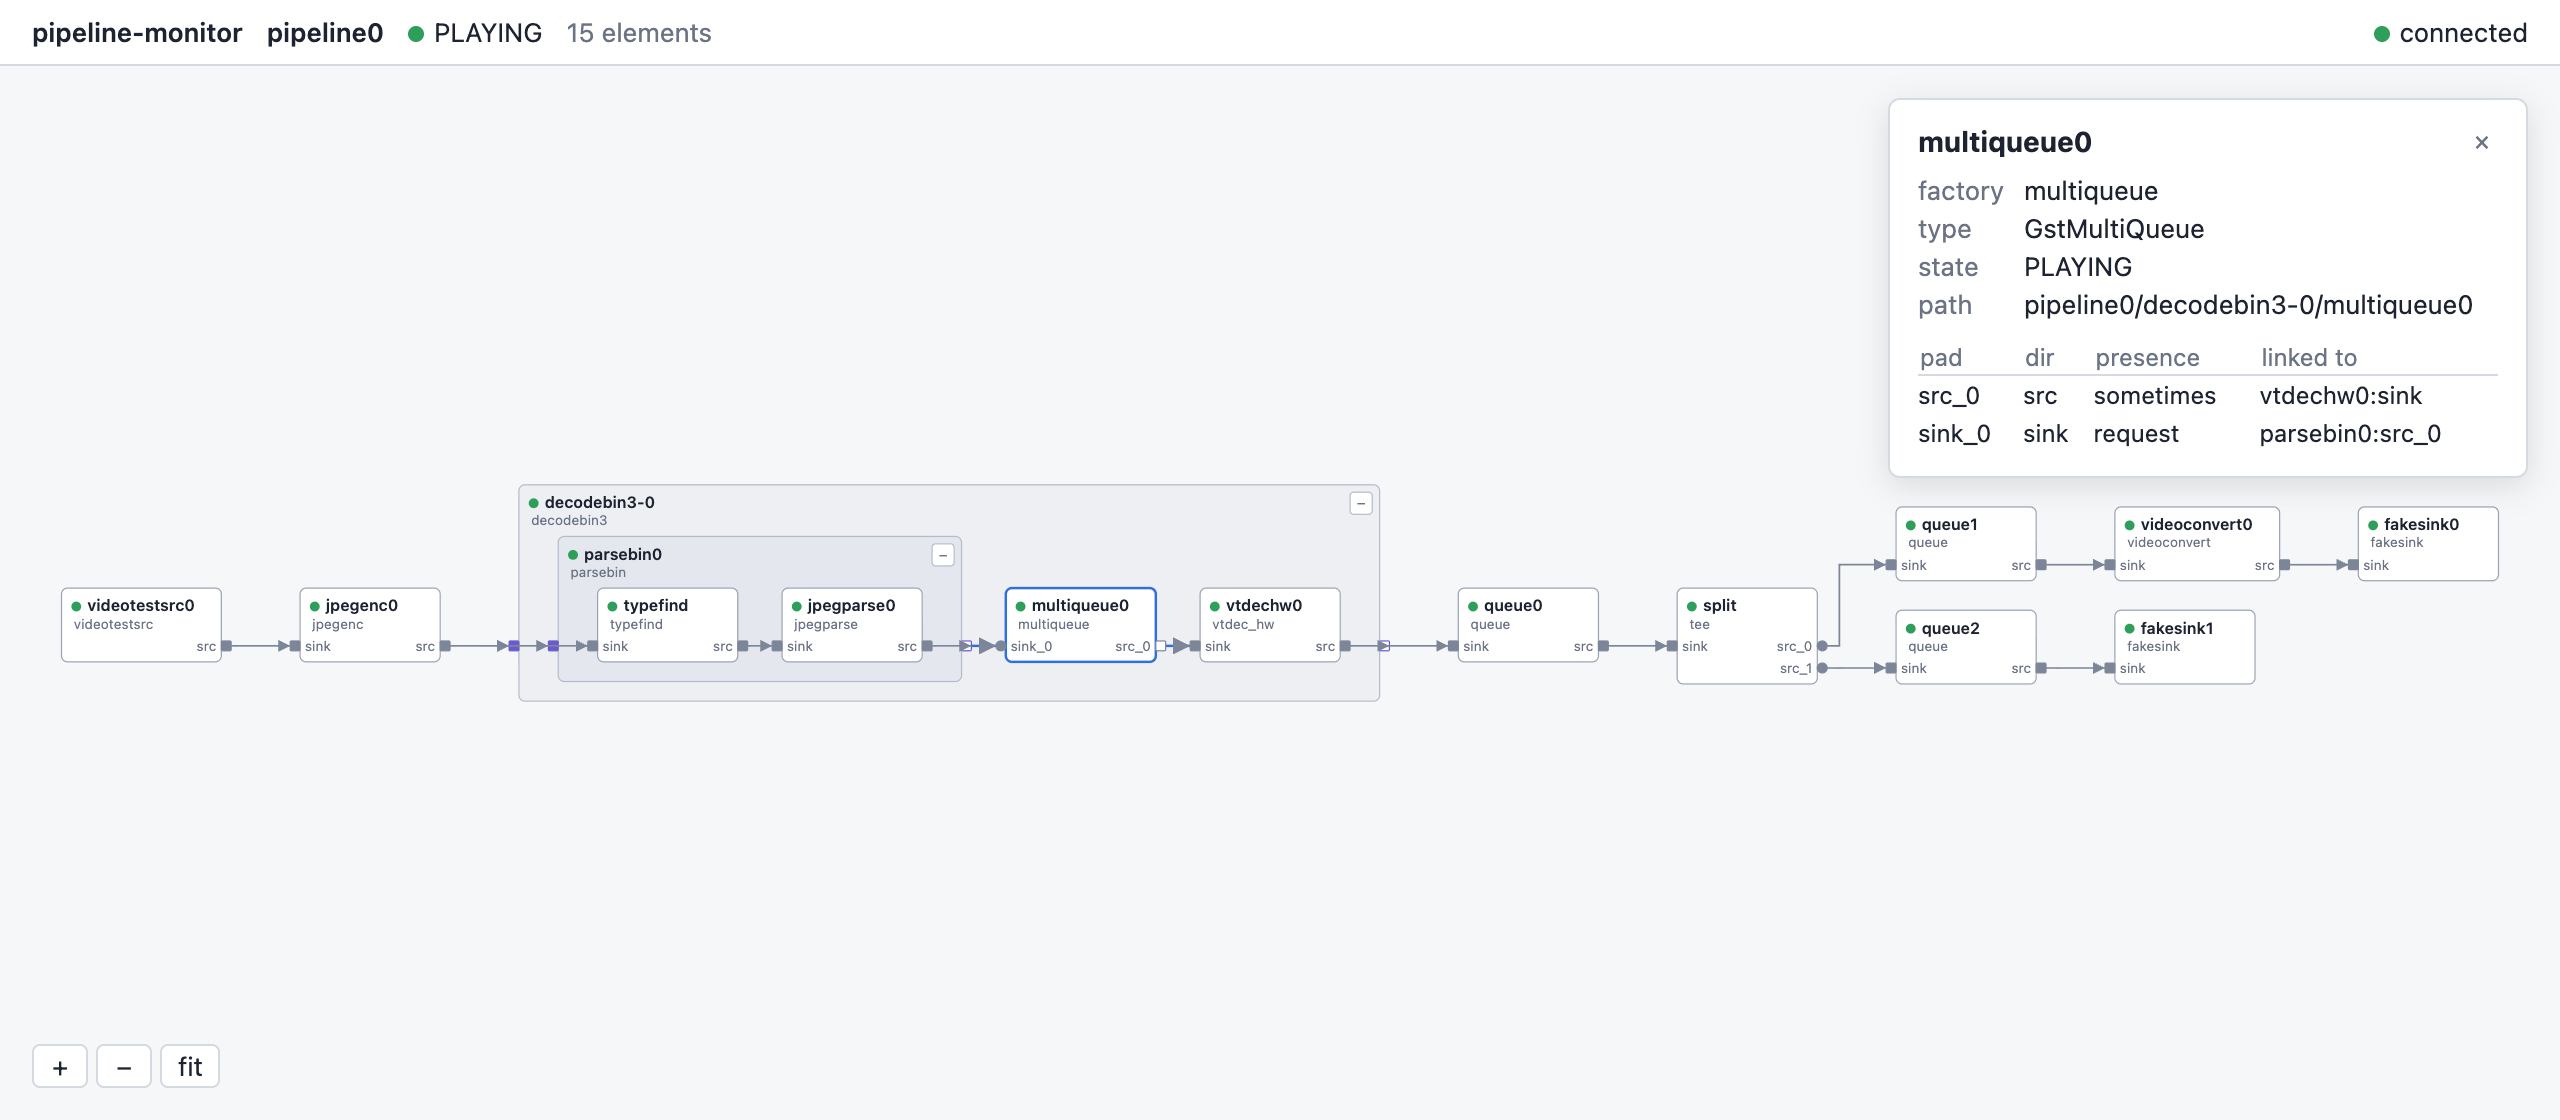
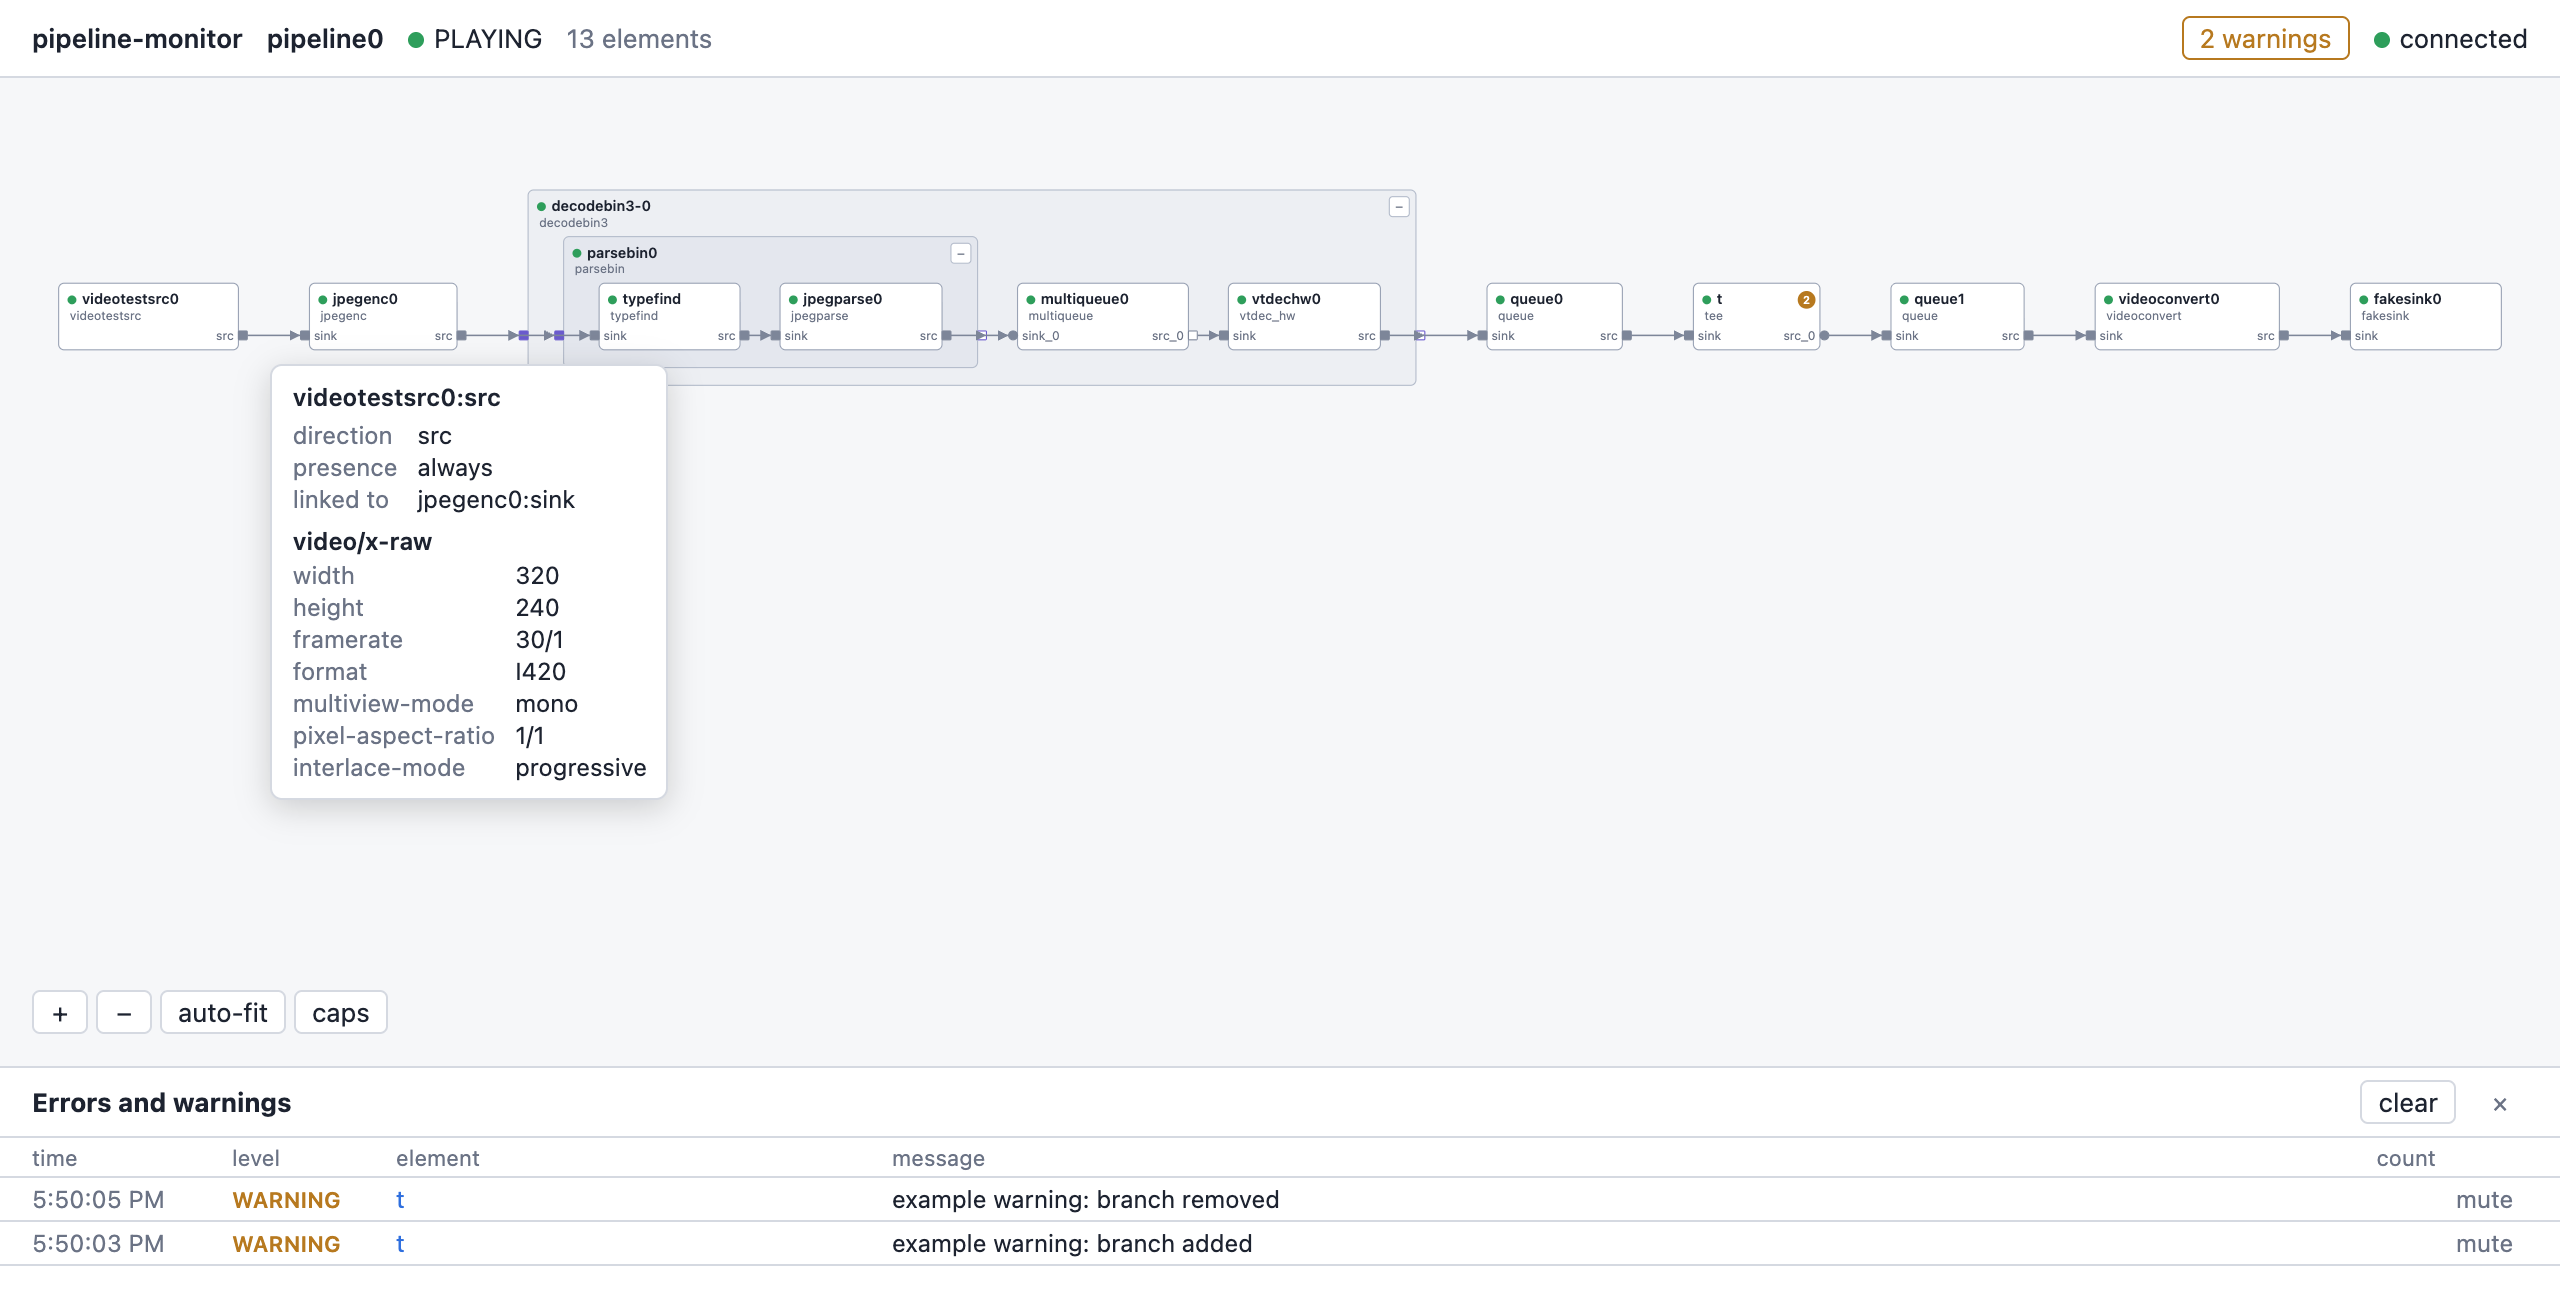
Update README for 0.2

diff --git a/README.md b/README.md
@@ -2,13 +2,18 @@
 
 See a running GStreamer pipeline live in your browser.
 
-![pipeline-monitor showing a pipeline with decodebin3 and a tee](.github/screenshot.png)
+![pipeline-monitor showing a pipeline with decodebin3, the caps of a pad and the errors and warnings panel](.github/screenshot.png)
 
 pipeline-monitor is a GStreamer tracer plugin. Enable it with one environment
 variable, without changing your application, and open http://127.0.0.1:8765/.
 
 - Elements, pads and links as a graph, including nested bins and ghost pads
 - Updates live as elements, pads, links and states change
+- Errors and warnings from the pipeline: a counter, a log panel and badges on
+  the elements that posted them; repeats are collapsed and noisy elements
+  can be muted
+- Negotiated caps on every pad and link: hover a pad or link, open the full
+  caps in the element details, or show labels on all links
 - Element details, collapsible bins, light and dark theme
 - Local only: listens on 127.0.0.1 and loads nothing from the internet
 
@@ -73,19 +78,23 @@ Then open the address it prints, by default http://127.0.0.1:8765/.
   environment or with `setenv()` before `gst_init()`.
 - Choose the port with `GST_TRACERS="pipeline-monitor(port=9000)"`. If the
   port is taken, the next free one is used.
+- Errors and warnings are collected by default; turn that off with
+  `GST_TRACERS="pipeline-monitor(log=false)"`. Options can be combined, e.g.
+  `pipeline-monitor(port=9000,log=false)`.
 - Try the example, which adds and removes a branch every two seconds:
-  `./examples/run-example.sh --serve` (on Windows, run
-  `build\examples\serve.exe` with `GST_PLUGIN_PATH` set as above)
+  `./examples/run-example.sh --serve`; add `--warnings` to also see warnings
+  (on Windows, run `build\examples\serve.exe` with `GST_PLUGIN_PATH` set as
+  above)
 
 The server has no authentication. It only accepts connections from the same
 machine and only from its own page.
 
 ## Status
 
-Version 0.1 shows the pipeline graph. It is tested on macOS (Apple Silicon)
-with GStreamer 1.28.8, and in CI on Ubuntu 24.04 (GStreamer 1.24), Debian 12
-(GStreamer 1.22), macOS (Homebrew) and Windows (official GStreamer 1.28.8,
-MSVC).
+Version 0.2 shows the pipeline graph, errors and warnings, and the negotiated
+caps. It is tested on macOS (Apple Silicon) with GStreamer 1.28.8, and in CI
+on Ubuntu 24.04 (GStreamer 1.24), Debian 12 (GStreamer 1.22), macOS
+(Homebrew) and Windows (official GStreamer 1.28.8, MSVC).
 
 ## License
 
